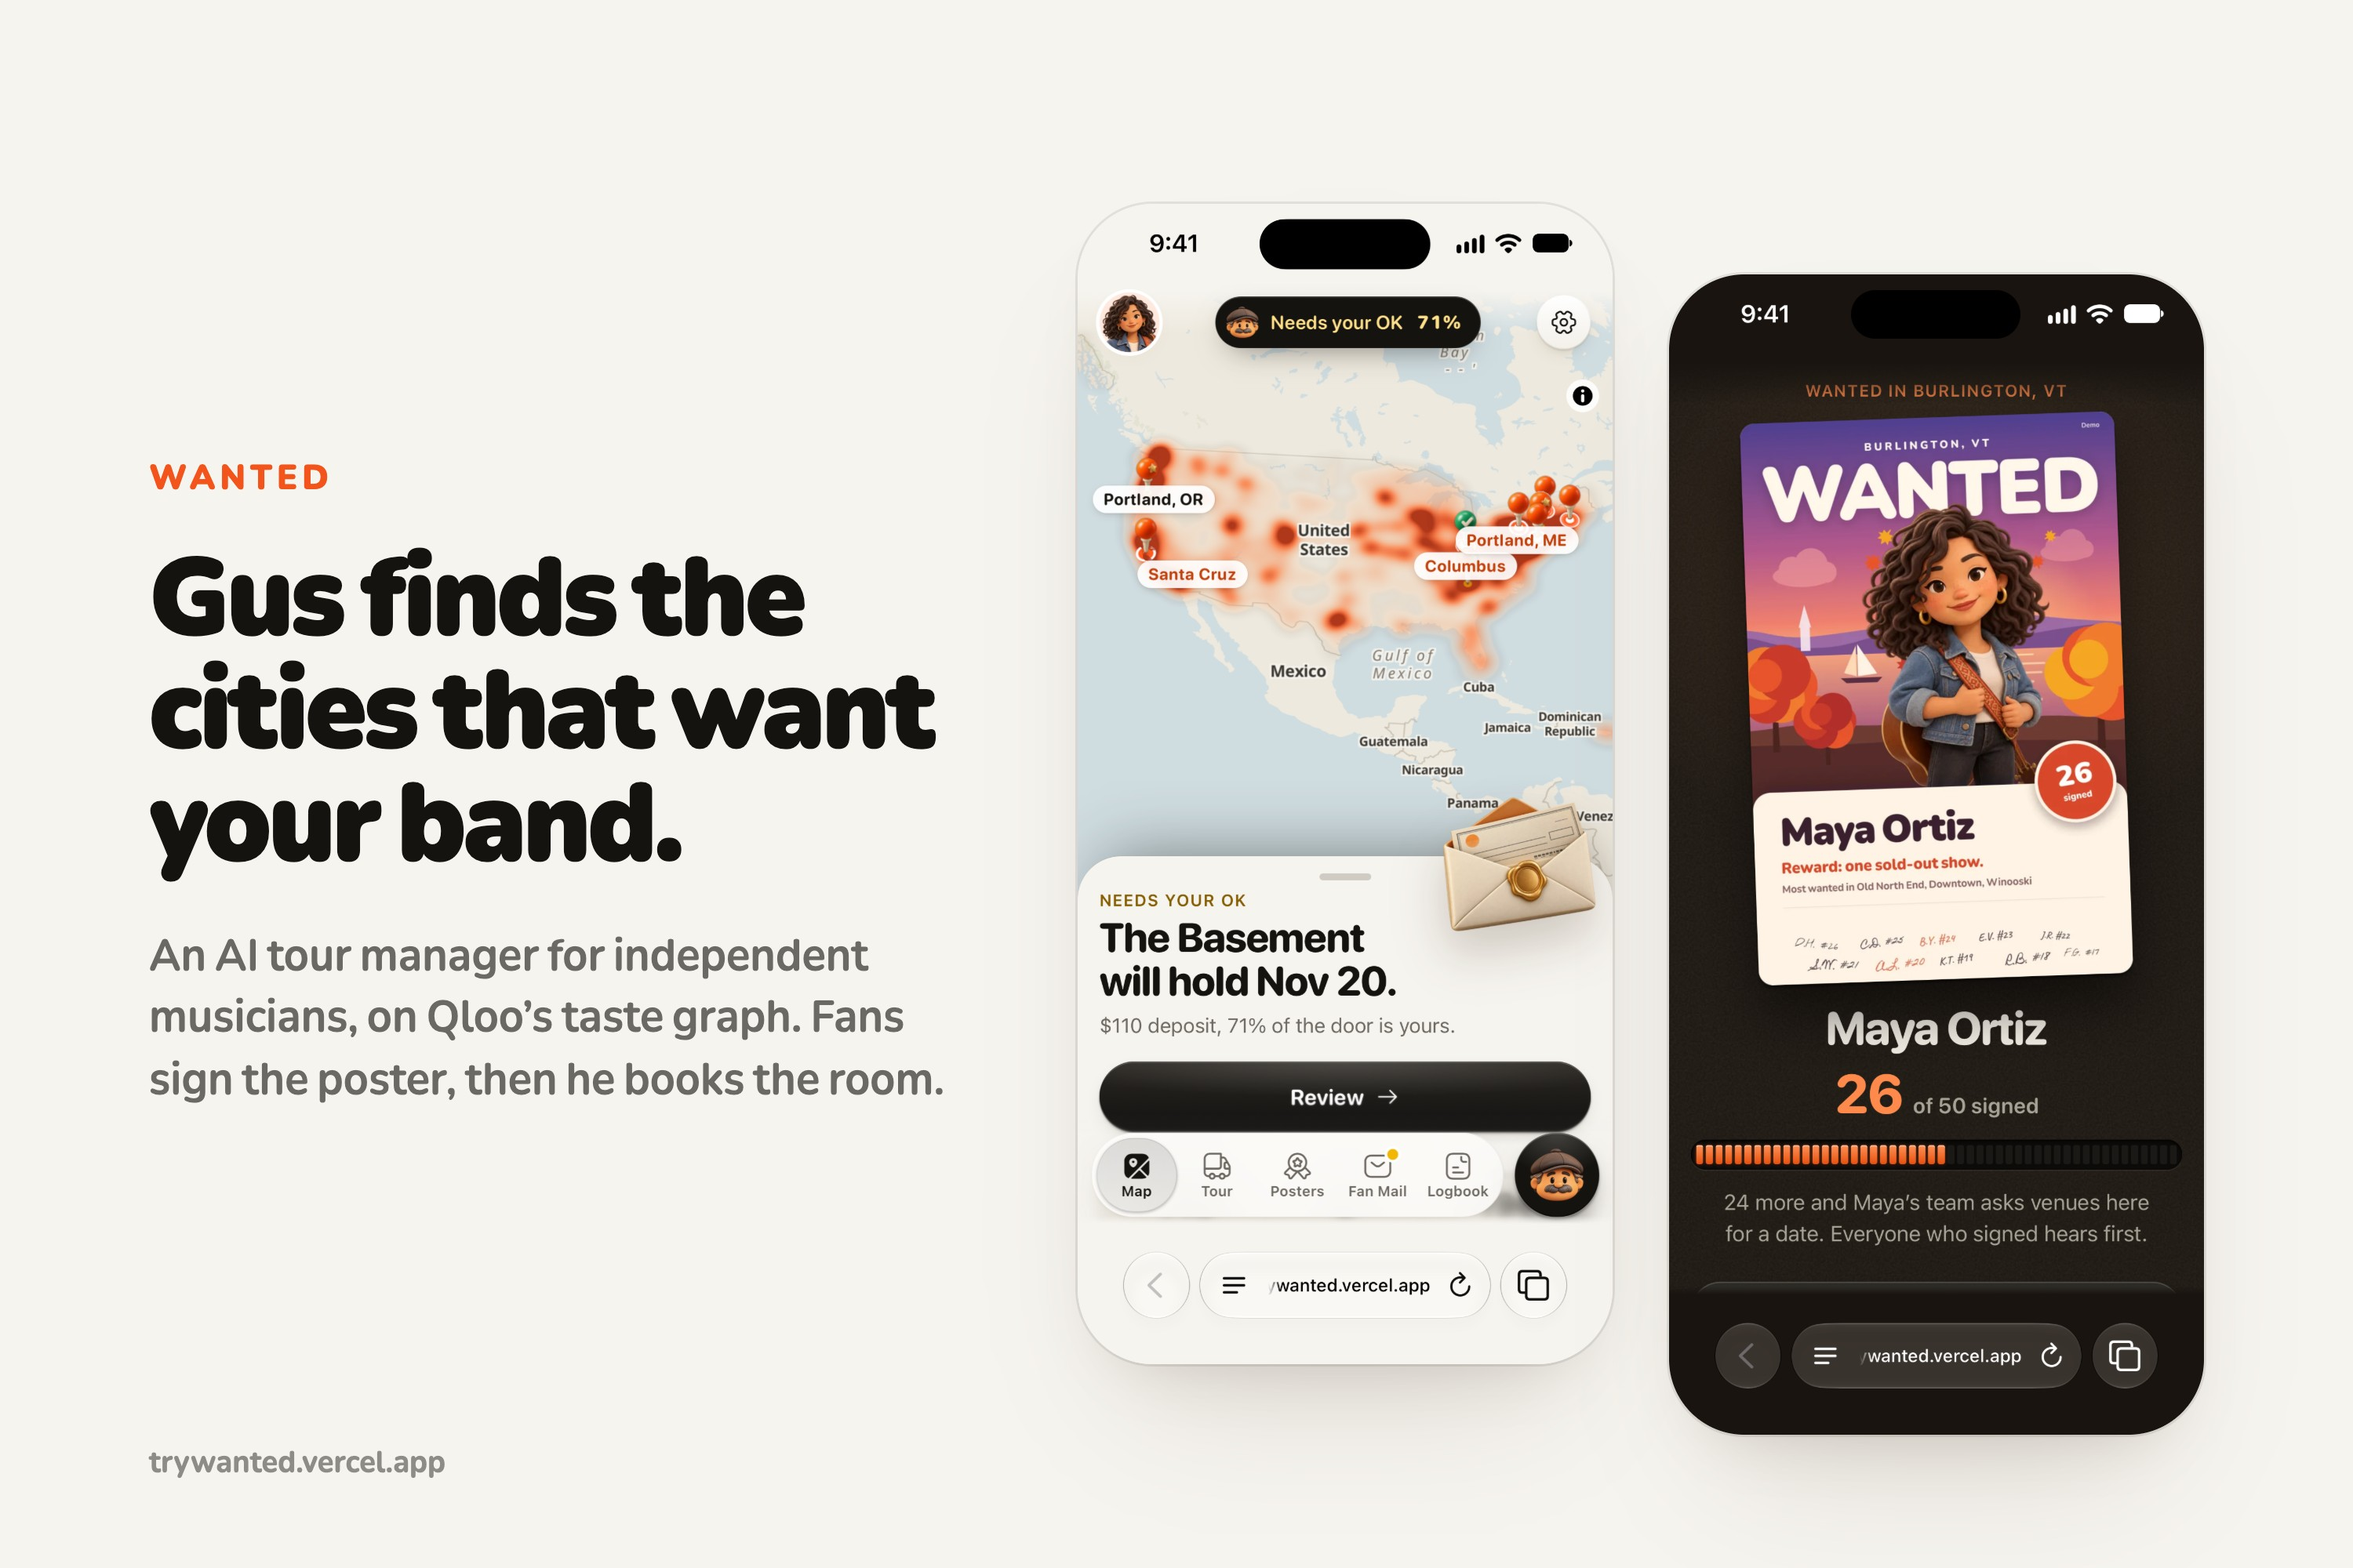
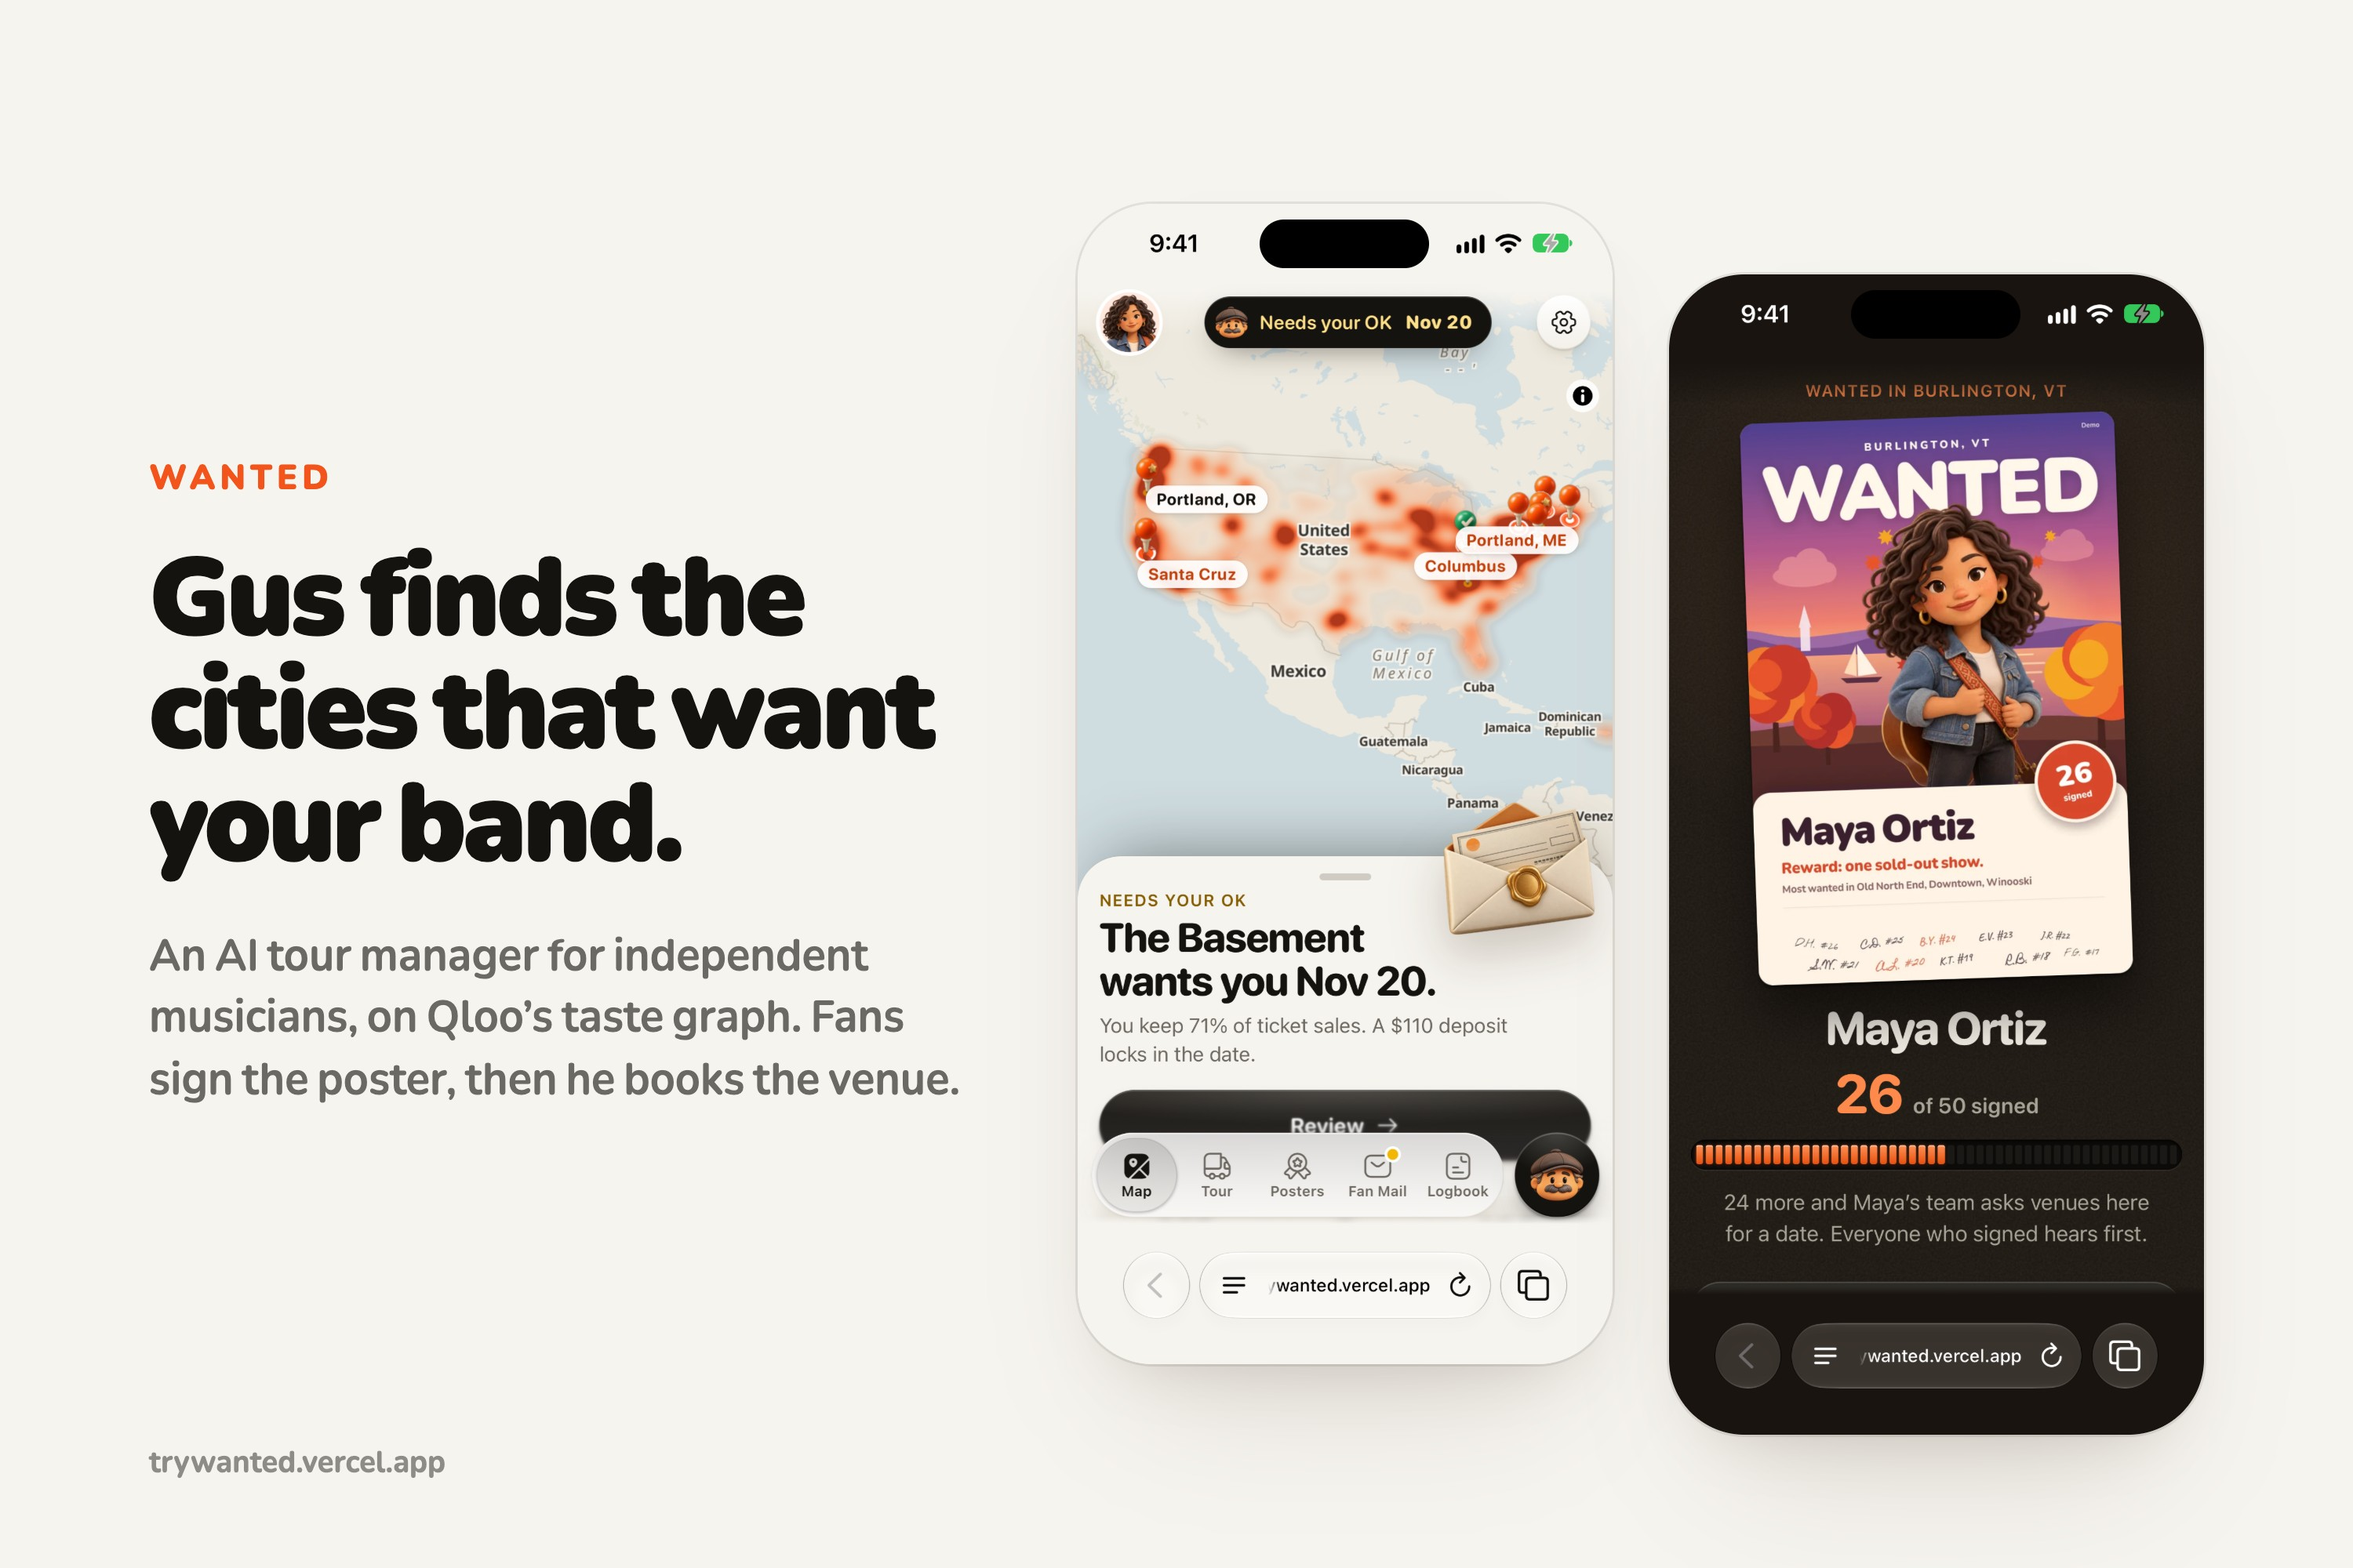
Drawer characters sit inside their cards so the drawer never clips them, Tour opened directly on desktop gets its side panel and map, fix cards say venue, and the gallery is reshot with the plain words

diff --git a/web/app/home.css b/web/app/home.css
@@ -1,14 +1,14 @@
 /* Map home: the drawer's three detents and the city sheet. */
 .home { position: relative; }
 
-/* Next move: the peek. The object breaks out over the drawer's edge; a meter of 50 ticks shows
+/* Next move: the peek. The object sits in the card's top corner (inside it, so no drawer edge or scroll can clip it); a meter of 50 ticks shows
    how close the city is, one tick per signature. */
 .nm { position: relative; display: flex; flex-direction: column; align-items: flex-start; gap: 6px; padding-top: 2px; }
-.nm-obj { position: absolute; right: -10px; top: -74px; z-index: 2; filter: drop-shadow(0 18px 18px rgba(60, 36, 10, 0.22)); transform: rotate(6deg); animation: nm-in 620ms var(--ease) both, bob 5s var(--ease) 620ms infinite; pointer-events: none; }
+.nm-obj { position: absolute; right: -4px; top: -6px; z-index: 2; filter: drop-shadow(0 18px 18px rgba(60, 36, 10, 0.22)); transform: rotate(6deg); animation: nm-in 620ms var(--ease) both, bob 5s var(--ease) 620ms infinite; pointer-events: none; }
 @keyframes nm-in { from { opacity: 0; transform: translateY(30px) rotate(-4deg) scale(0.8); } }
 @keyframes bob { 50% { transform: translateY(-4px) rotate(4.5deg); } }
-.nm .kicker { padding-right: 110px; }
-.nm-title { font: 800 30px/1.06 var(--display); letter-spacing: -0.03em; max-width: 11em; padding-right: 72px; text-wrap: balance; }
+.nm .kicker { padding-right: 96px; }
+.nm-title { font: 800 30px/1.06 var(--display); letter-spacing: -0.03em; max-width: 11em; padding-right: 88px; text-wrap: balance; }
 .nm-meter { width: 100%; margin-top: 6px; display: flex; flex-direction: column; gap: 8px; }
 .nm-count { display: flex; align-items: baseline; gap: 6px; }
 .nm-count b { font: 800 34px/1 var(--display); letter-spacing: -0.03em; color: var(--wanted-text); }

diff --git a/src/lib/tour.ts b/src/lib/tour.ts
@@ -596,13 +596,13 @@ export function roastCard(r: Roast, stops: TourStop[], names: CardNames): RoastC
   const s = r.stopIndex !== null ? stops[r.stopIndex] : null;
   const f = r.fix;
   const city = (id: string) => names.city(id) ?? 'a better city';
-  const room = (metroId: string, id: string) => names.room(metroId, id) ?? 'a better room';
+  const room = (metroId: string, id: string) => names.room(metroId, id) ?? 'a better venue';
   const to = !f ? null : f.kind === 'swap-city' ? city(f.metroId) : f.kind === 'change-room' && s ? room(s.metroId, f.roomId) : f.kind === 'add-city' ? city(f.metroId) : f.kind === 'move-date' ? `${cap(dayOf(f.date))}` : null;
   const action = !f ? 'Got it' : f.kind === 'drop' ? `Drop ${s?.city ?? 'it'}` : f.kind === 'add-city' ? `Add ${to}` : f.kind === 'change-room' ? 'Switch venues' : f.kind === 'move-date' ? `Move to ${to}` : f.kind === 'swap-city' ? `Go to ${to}` : 'Swap the dates';
   const day = s ? cap(s.day) : '';
   switch (r.rule) {
     case 'wrong-side':
-      return { title: `A better room in ${s?.city}`, from: s?.room?.name ?? null, to, note: 'Closer to where your fans live.', action };
+      return { title: `A better venue in ${s?.city}`, from: s?.room?.name ?? null, to, note: 'Closer to where your fans live.', action };
     case 'closed-night':
       return { title: `${s?.room?.name} is closed that ${day}`, from: s?.room?.name ?? null, to, note: to ? 'Open that night.' : 'Push the show a day.', action };
     case 'cold-city':

diff --git a/web/app/tour.css b/web/app/tour.css
@@ -24,11 +24,11 @@
 .tr-replan { margin-top: 18px; }
 .tr-body .fine { margin-top: 10px; text-align: center; }
 
-/* Hero: the dates big, the run as a strip, the score as a ring. The van breaks out over the edge. */
+/* Hero: the dates big, the run as a strip, the score as a ring. Gus sits in the top corner, inside the card so the drawer never clips him. */
 .th { position: relative; display: flex; flex-direction: column; align-items: flex-start; gap: 4px; }
-.th-obj { position: absolute; right: -14px; top: -70px; z-index: 2; filter: drop-shadow(0 18px 16px rgba(60, 36, 10, 0.22)); transform: scaleX(-1); animation: van-in 760ms var(--ease) both; pointer-events: none; }
+.th-obj { position: absolute; right: -6px; top: -8px; z-index: 2; filter: drop-shadow(0 18px 16px rgba(60, 36, 10, 0.22)); transform: scaleX(-1); animation: van-in 760ms var(--ease) both; pointer-events: none; }
 @keyframes van-in { from { opacity: 0; transform: scaleX(-1) translateX(80px); } }
-.th .kicker { padding-right: 110px; }
+.th .kicker { padding-right: 96px; }
 .th-title { display: flex; align-items: baseline; gap: 10px; font: 800 34px/1.05 var(--display); letter-spacing: -0.035em; margin-top: 2px; }
 .th-arrow { color: var(--ink-4); font-weight: 600; }
 .th-sub { font: 600 15px var(--body); color: var(--ink-2); }

diff --git a/web/app/a/[artist]/tour/page.tsx b/web/app/a/[artist]/tour/page.tsx
@@ -16,6 +16,7 @@ import { ApiError, streamNdjson } from '@web/lib/api';
 import { gus } from '@web/lib/gus';
 import { mutate, useApi, useViewport } from '@web/lib/hooks';
 import { stage } from '@web/lib/stage';
+import '../../../home.css';
 import '../../../tour.css';
 
 type PlanAction = { kind: 'new' } | { kind: 'replan' } | { kind: 'lock'; stopIndex: number; locked: boolean } | { kind: 'fix'; fix: NonNullable<Roast['fix']> };
@@ -119,7 +120,7 @@ export default function TourPage() {
         {fixes.length > 0 && <span className="btn xs hot">{fixes.length === 1 ? '1 change' : `${fixes.length} changes`}</span>}
       </button>
       <div className="th" data-tour="run" ref={heroRef}>
-        <Gus mood={busy ? 'working' : fixes.length ? 'thinking' : 'proud'} size={124} className="th-obj" />
+        <Gus mood={busy ? 'working' : fixes.length ? 'thinking' : 'proud'} size={88} className="th-obj" />
         <span className="kicker k-hot">Your tour</span>
         <h2 className="th-title">
           {md(first!.date)}

diff --git a/web/app/a/[artist]/page.tsx b/web/app/a/[artist]/page.tsx
@@ -256,7 +256,7 @@ function NextMove({ move }: { move: Move }) {
 function NextMoveCard({ move, ask, r }: { move: Move; ask: boolean; r: React.RefObject<HTMLDivElement | null> }) {
   return (
     <div className={`nm ${ask ? 'is-ask' : ''}`} ref={r}>
-      <Art name={move.art} size={124} className="nm-obj" />
+      <Art name={move.art} size={88} className="nm-obj" />
       <span className={`kicker ${ask ? 'k-ask' : 'k-hot'}`}>{move.kicker}</span>
       <h2 className="nm-title">{move.title}</h2>
       {move.count ? (

diff --git a/docs/design/BUILD-HANDOFF.md b/docs/design/BUILD-HANDOFF.md
@@ -122,6 +122,9 @@ Status as of 2026-10-27, mid-build. Read this first after a context reset.
 - Fan Mail drops rough, culture-war and non-English posts (`pulse.ts`, `chatter:v3`). Tour plan blurbs that are lists of weekdays fall back to the plain line (old demo plan on prod still has them).
 - `?ask=<question>` on any act page opens Gus and asks it. Gallery: `node scripts/gallery-refresh.mjs --wait /llms-full.txt <text>` waits for the deploy, then reshoots and rebuilds the cards with no taps.
 - Claude card view is `ui://wanted/gus-card-v3.html`.
+- Desktop Tour opened directly (reload, shared link) covered the whole screen: `home.css` (the `home-panel` rules) only loaded via the Map. Tour imports it now.
+- The objects on drawer cards (Map's next move, Tour's Gus) sit inside the card's top corner at 88 px. Breaking out over the edge got clipped by the drawer's scroll box on phone and desktop. Don't put breakout art inside a scrolling drawer.
+- Conflict radar and merch-for-the-city were tried and dropped: no keyless event API (Bandsintown 403s), and Qloo's brand answers barely change between cities.
 
 ## Next steps
 
